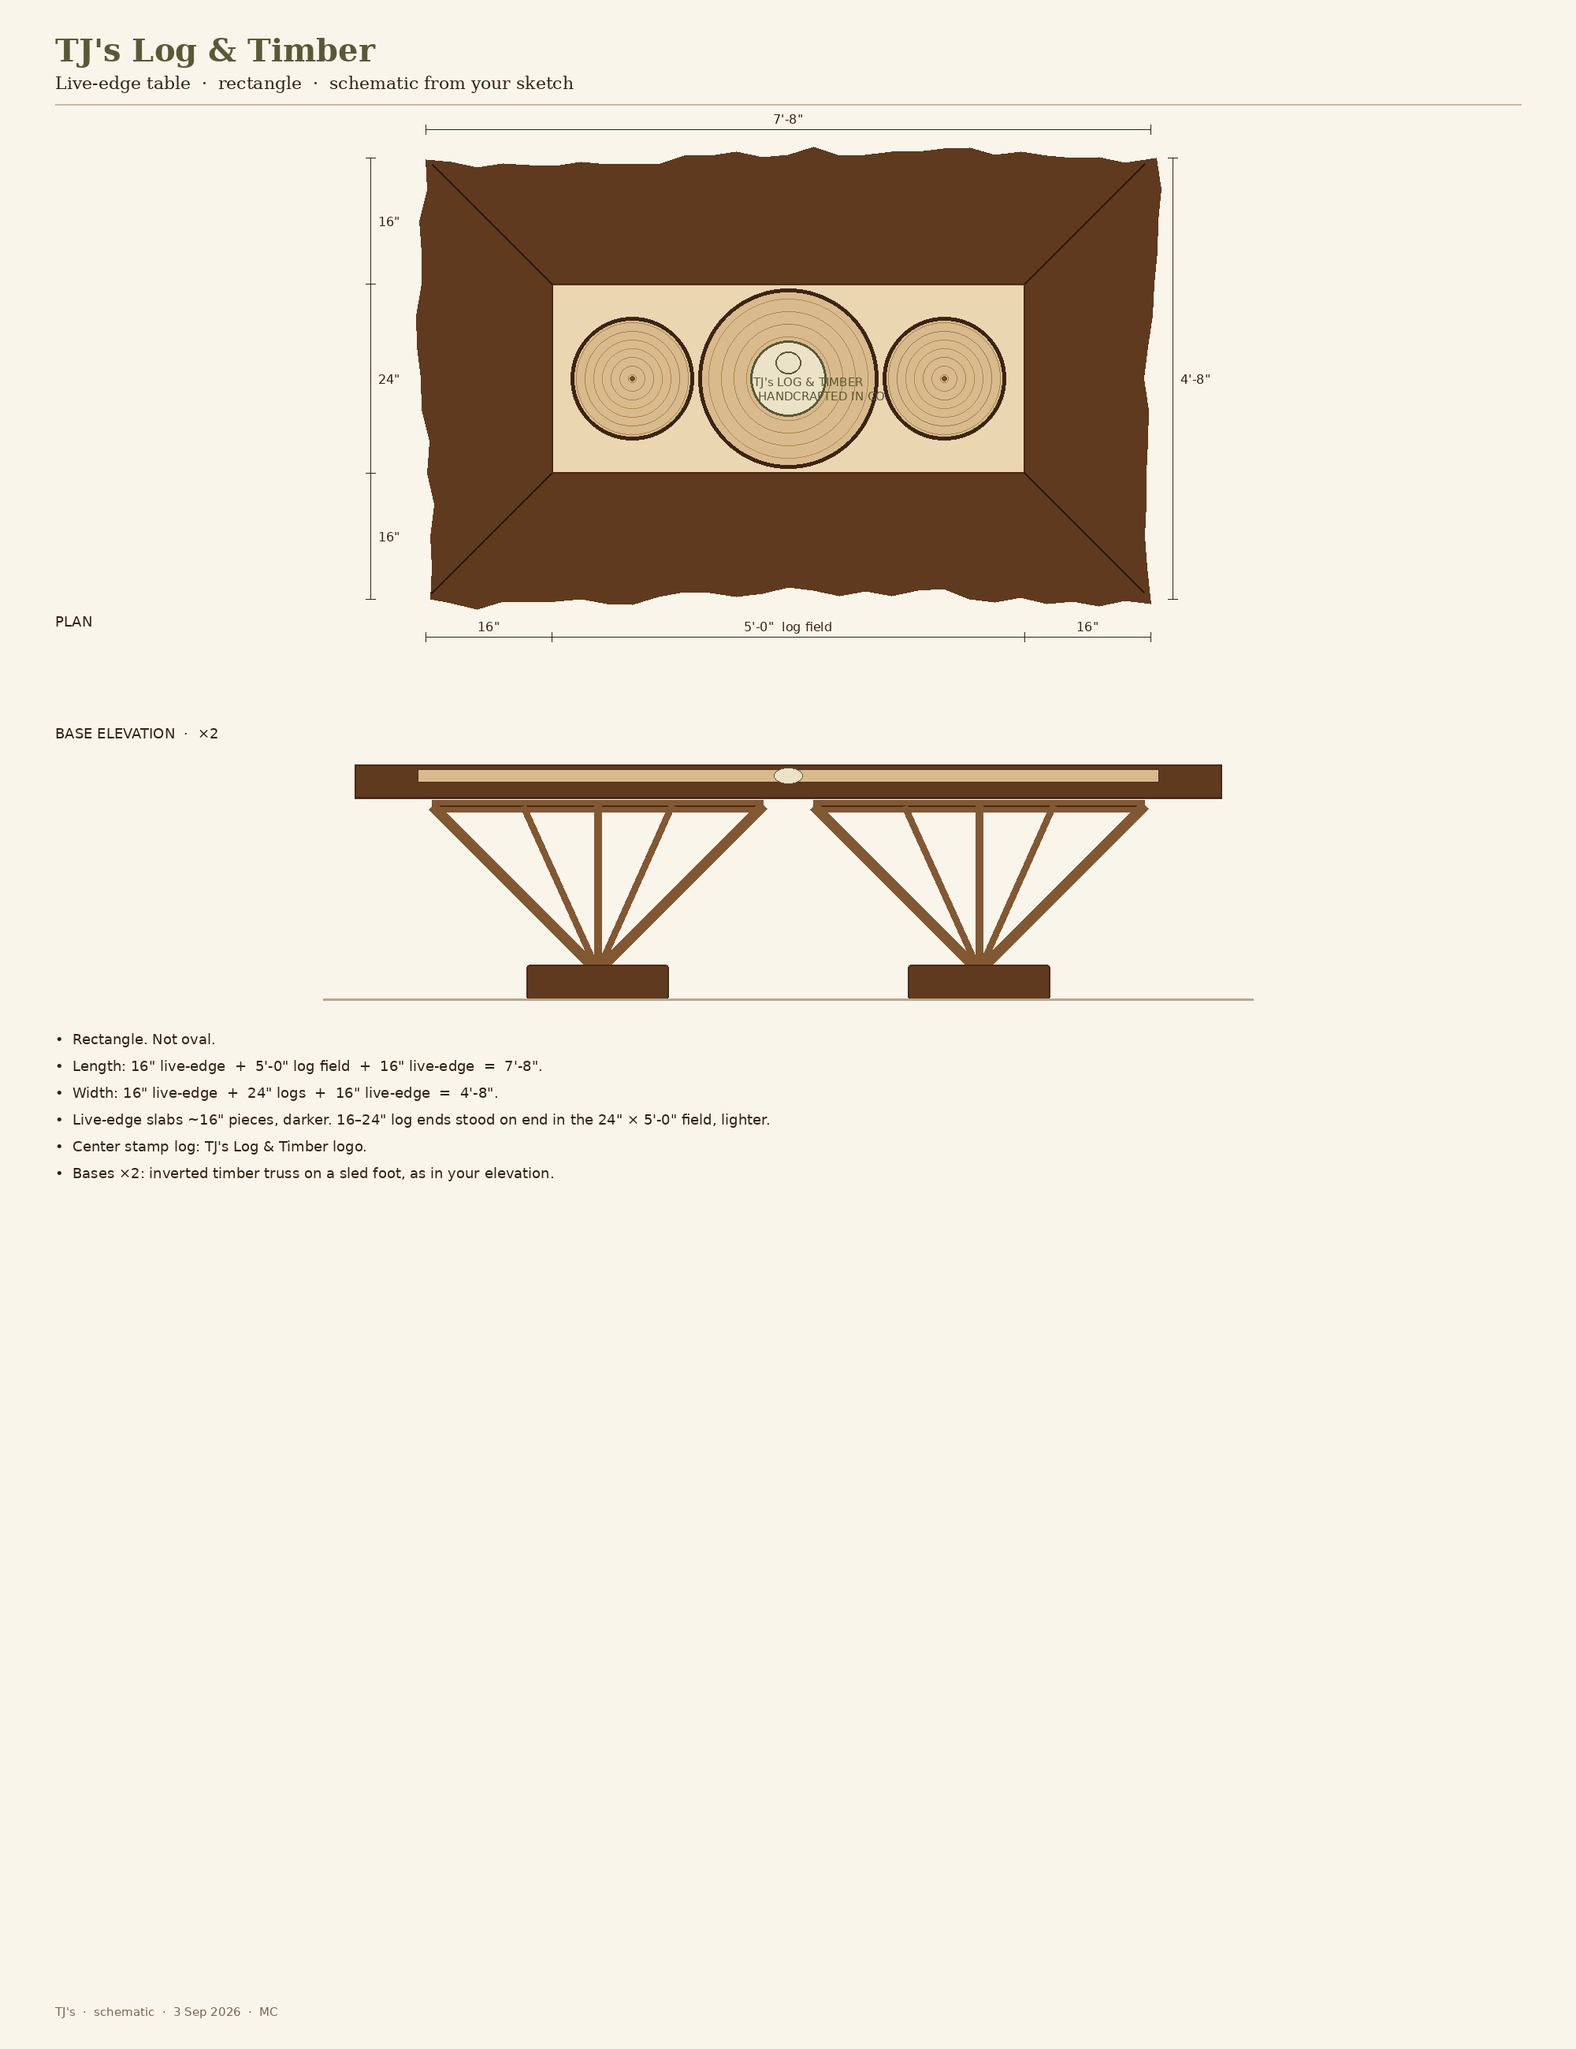
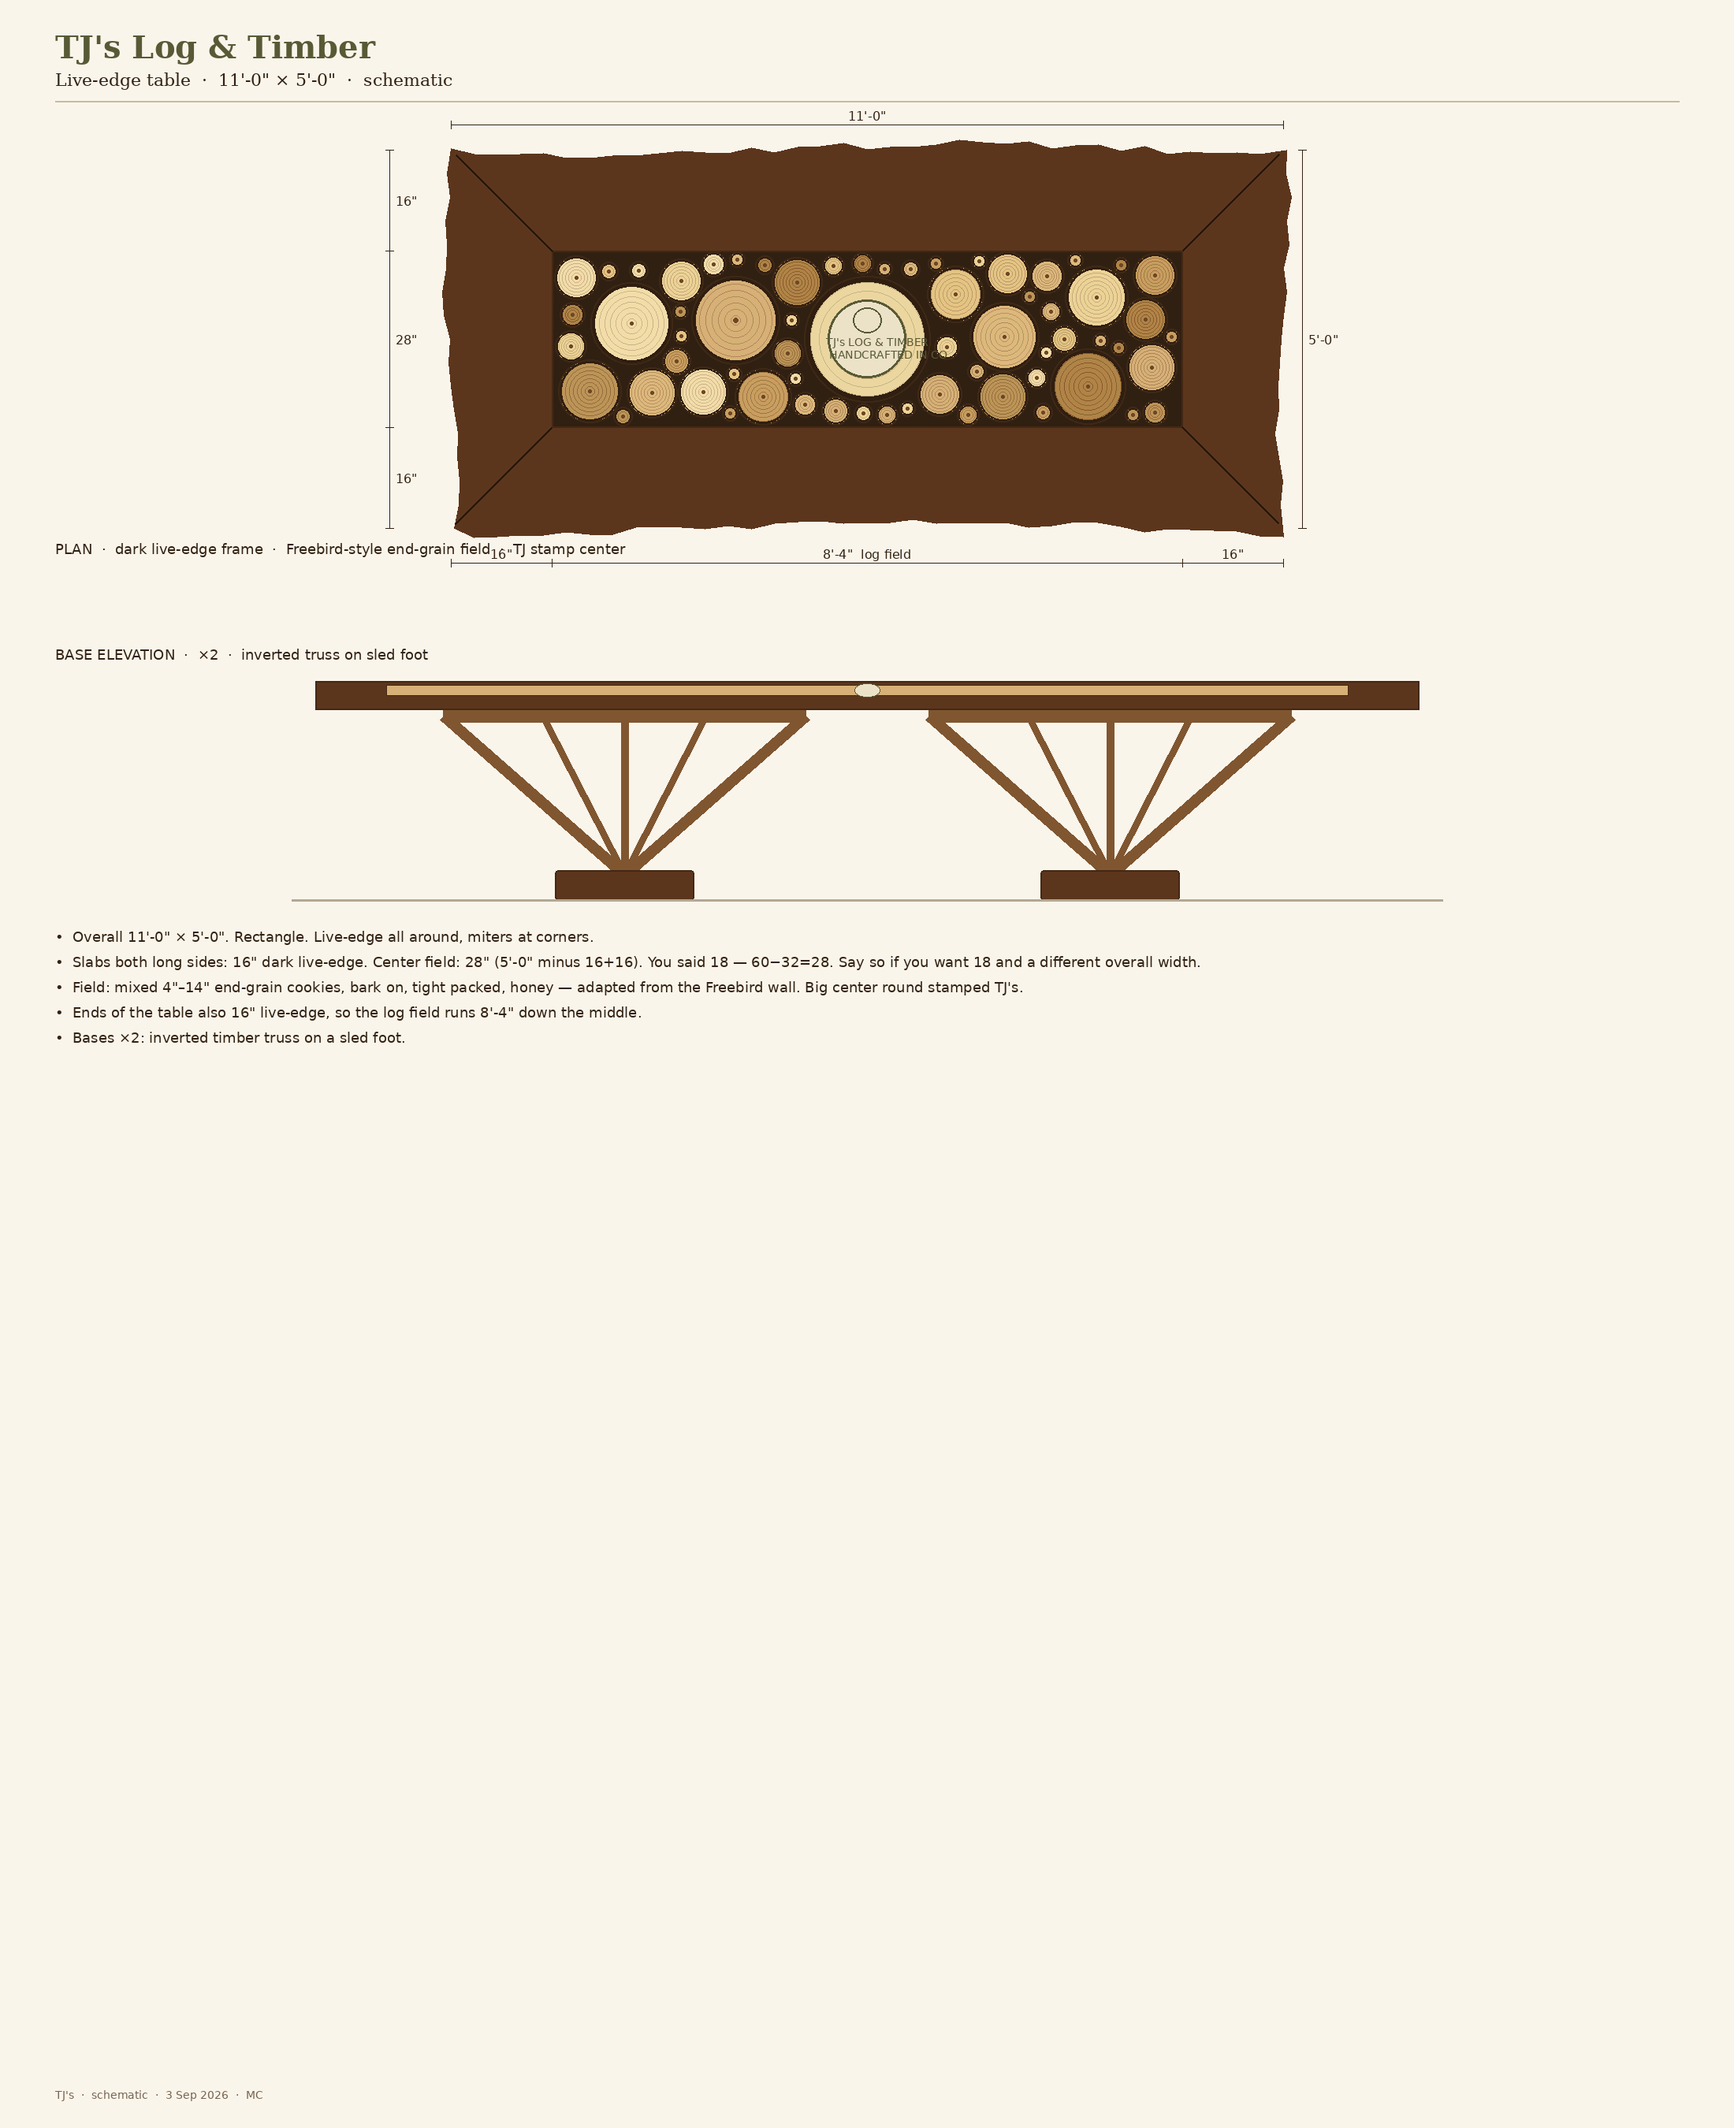
Live-edge table 11x5: 16in slabs, 28in Freebird-style log field

Changed region(s): [[0.031, 0.0, 0.837, 0.5608], [0.031, 0.2804, 0.062, 0.3115]]

diff --git a/assets/tjs-live-edge-table.html b/assets/tjs-live-edge-table.html
@@ -20,6 +20,8 @@
     <h1>TJ's live-edge table</h1>
     <p>Schematic. Dark live-edge slab rim. Light 16–24&quot; log ends in the field. Center stamp log. Inverted truss bases.</p>
     <img src="tjs-live-edge-table.png" alt="TJ's live-edge table schematic">
+    <p style="margin-top:22px">Center field reference (wall):</p>
+    <img src="tjs-live-edge-wall-ref.jpg" alt="Freebird end-grain wall reference">
   </div>
 </body>
 </html>
